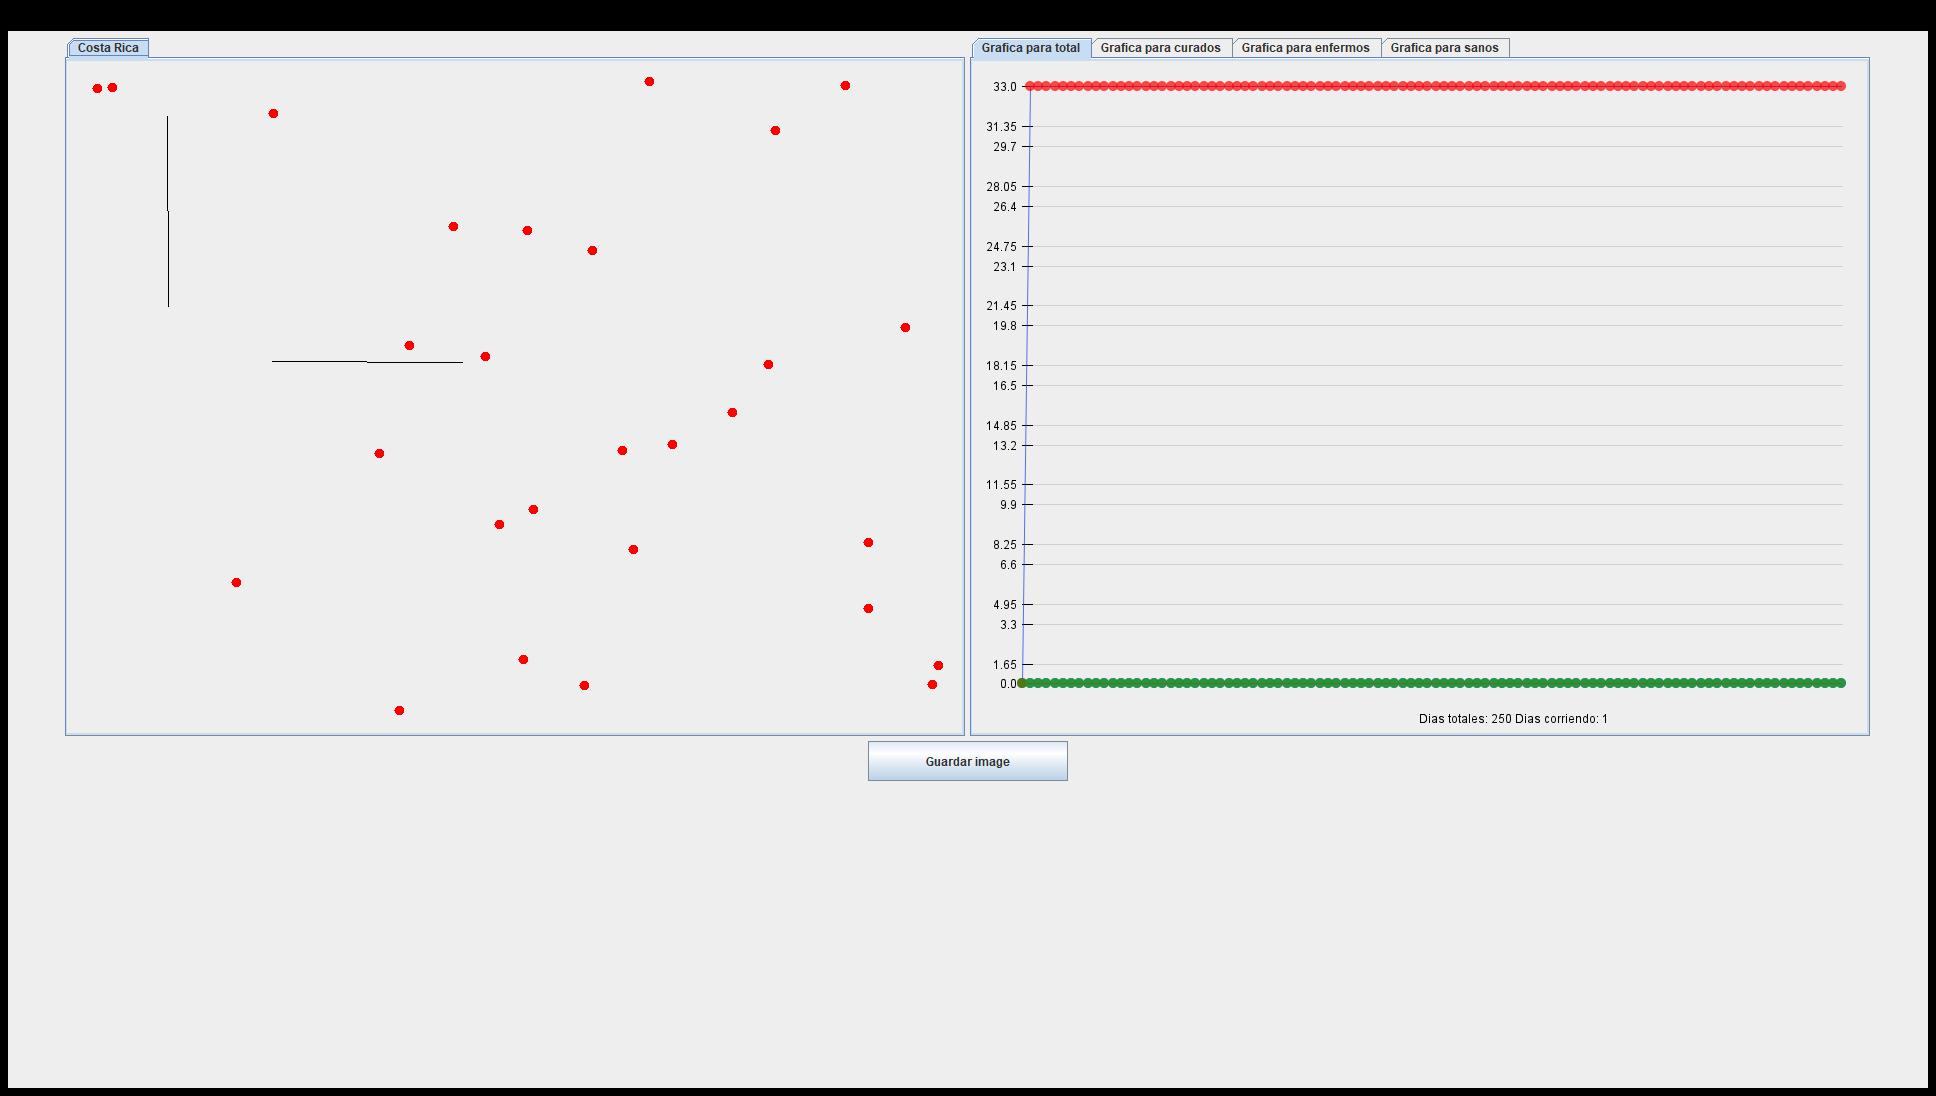
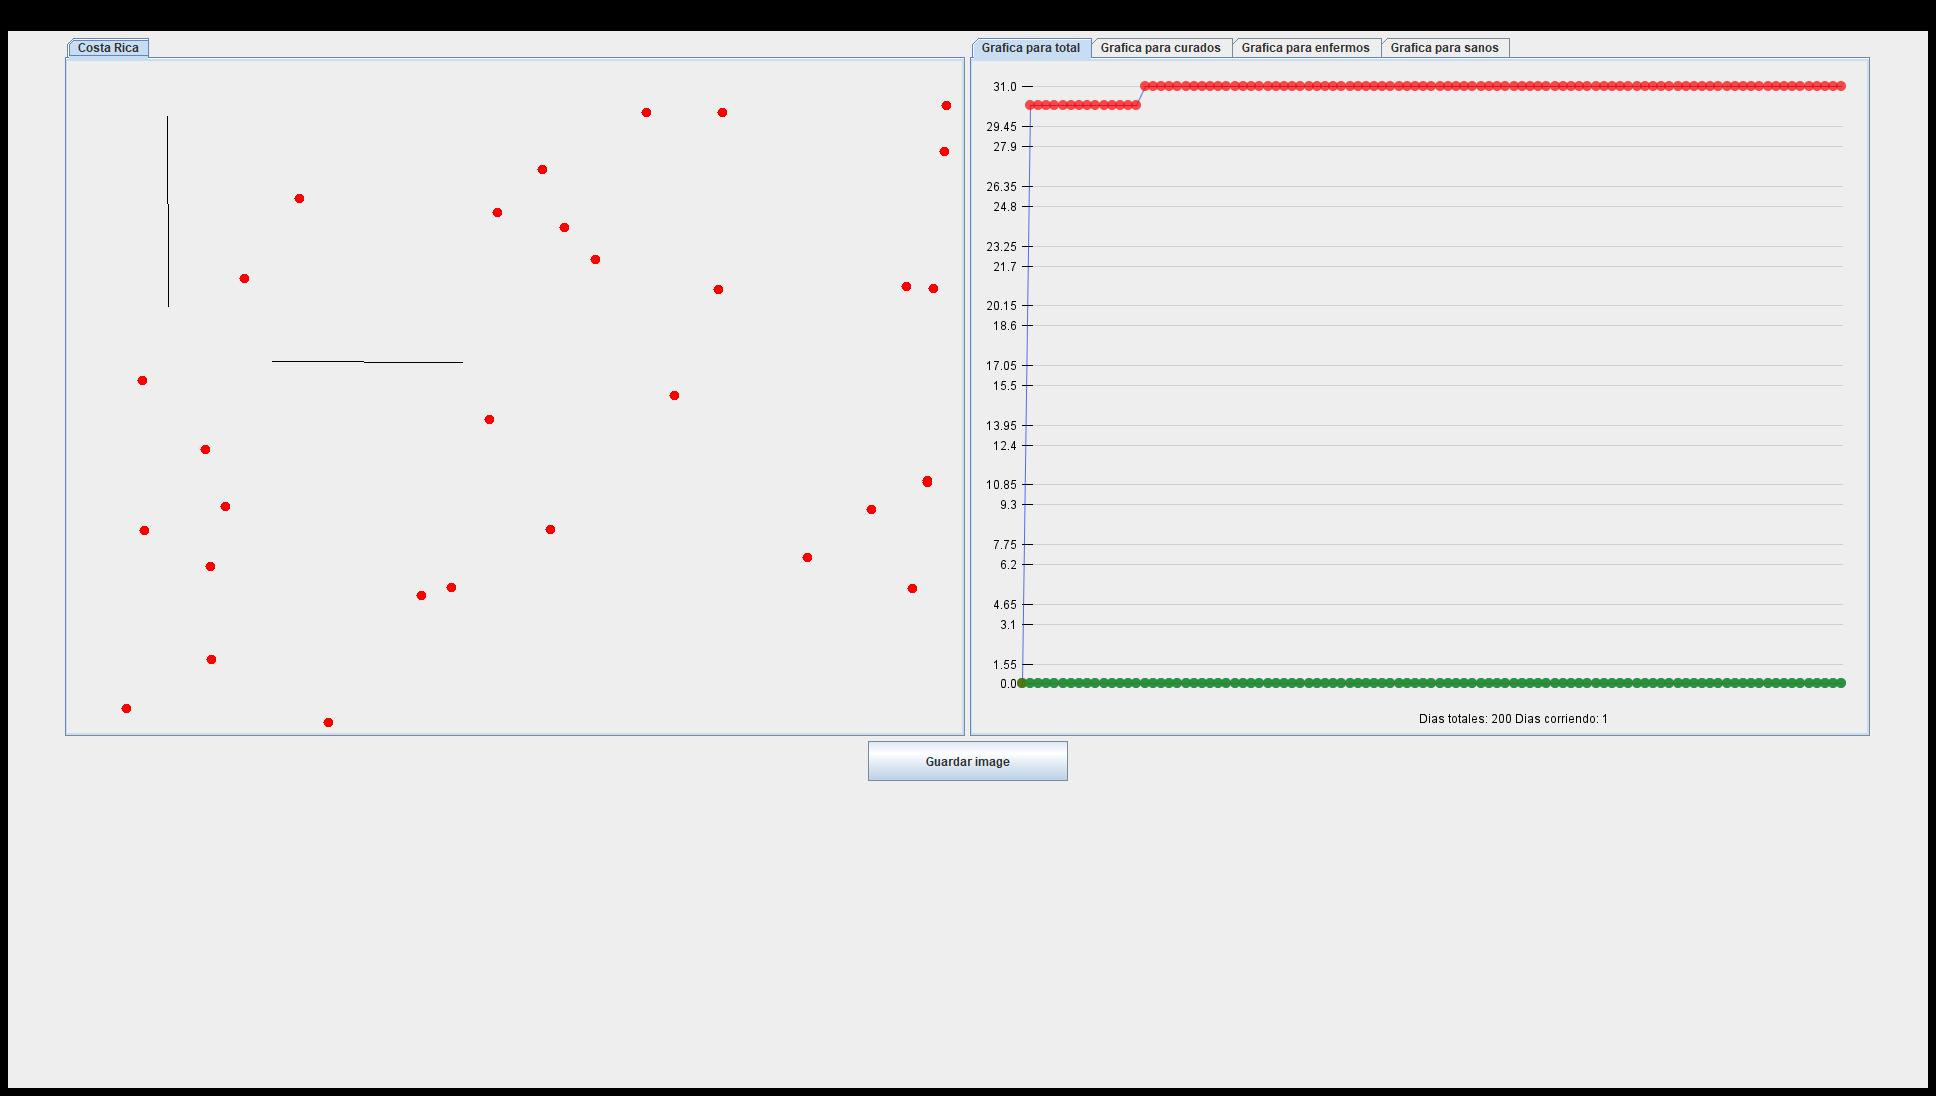
Los agentes ahora se envían con el tiempo limite

Changed region(s): [[0.5269, 0.062, 0.8988, 0.1241]]

diff --git a/src/Multimap/GuiMapMulti.java b/src/Multimap/GuiMapMulti.java
@@ -105,24 +105,15 @@ public class GuiMapMulti extends JPanel implements ActionListener {
         // Esta es la condición de parada
         if(datos_progresivos_de_la_enfermedad.getDias() > configuracion_de_la_enfermedad.getDias_totales()*100) {
             t.stop();
-            Generador_latex gl = new Generador_latex();
-            try {
-                gl.generarLatex(arreglo_de_los_agentes.size(), configuracion_de_la_enfermedad.getDias_totales(), listaGrafico);
-                System.exit(0);
-            } catch (IOException e) {
-                e.printStackTrace();
-            }
+
+            ImageThread imageThread = new ImageThread(listaGrafico, arreglo_de_los_agentes,configuracion_de_la_enfermedad);
+            imageThread.start();
+
         }else{
             if(contador%100 == 0){
                 try {
-                    BufferedImage image = new BufferedImage(f.getWidth(), f.getHeight(), BufferedImage.TYPE_INT_RGB);
-                    Graphics2D graphics2D = image.createGraphics();
-                    f.paint(graphics2D);
-                    File file = new File("latex/");
-                    //Creating the directory
-                    file.mkdir();
-                    ImageIO.write(image, "jpeg", new File("latex/" + contador_imagenes + ".jpeg"));
-                    //Thread.sleep(1000);
+                    LatexThread latexThread = new LatexThread(f,contador_imagenes);
+                    latexThread.start();
                     contador_imagenes++;
                 }catch(Exception e){
                 }
@@ -156,9 +147,14 @@ public class GuiMapMulti extends JPanel implements ActionListener {
                             Socket socket = new Socket(server.getLista_de_ips().get(j),server.getLista_de_puertos().get(j));
 
                             ObjectOutputStream outStream = new ObjectOutputStream(socket.getOutputStream());
+                            arreglo_de_los_agentes.get(i).setTiempo_de_viaje(server.getTiempo_de_agente_en_la_computadora());
                             outStream.writeObject(arreglo_de_los_agentes.get(i));
                             arreglo_de_los_agentes.remove(i);
+                            System.out.println("---------------------------------------");
                             System.out.println("Enviando");
+                            System.out.println(arreglo_de_los_agentes.get(i).toString());
+                            System.out.println("---------------------------------------");
+
                         }catch (Exception exception){
                             System.out.println("---------------------------------------");
                             System.out.println("Error para enviar");

diff --git a/src/Classes/agente.java b/src/Classes/agente.java
@@ -17,6 +17,7 @@ public class agente implements Serializable {
     private ArrayList<Double[]> posiciones_del_tipo_2 = new ArrayList<Double[]>();;
     private int posicion_del_tipo_2 = 0;
     private Boolean validador_para_mover_posicion_del_tipo_2 = true;
+    private int tiempo_de_viaje = 0;
 
     public agente(int tipo, String estado, double velocidad_x, double velocidad_y, int velocidad_maxima, int velocidad_minima, double posicion_en_eje_x, double posicion_en_eje_y, double tiempo_enfermo) {
         this.tipo = tipo;
@@ -32,6 +33,14 @@ public class agente implements Serializable {
     }
 
     public agente() {
+    }
+
+    public int getTiempo_de_viaje() {
+        return tiempo_de_viaje;
+    }
+
+    public void setTiempo_de_viaje(int tiempo_de_viaje) {
+        this.tiempo_de_viaje = tiempo_de_viaje;
     }
 
     public void mover_aleatoreamente(){
@@ -186,6 +195,10 @@ public class agente implements Serializable {
                 ", posicion_en_eje_x=" + posicion_en_eje_x +
                 ", posicion_en_eje_y=" + posicion_en_eje_y +
                 ", tiempo_enfermo=" + tiempo_enfermo +
+                ", posiciones_del_tipo_2=" + posiciones_del_tipo_2 +
+                ", posicion_del_tipo_2=" + posicion_del_tipo_2 +
+                ", validador_para_mover_posicion_del_tipo_2=" + validador_para_mover_posicion_del_tipo_2 +
+                ", tiempo_de_viaje=" + tiempo_de_viaje +
                 '}';
     }
 }

diff --git a/src/Multimap/ImageThread.java b/src/Multimap/ImageThread.java
@@ -1,0 +1,39 @@
+package Multimap;
+
+import Classes.Generador_latex;
+import Classes.agente;
+import Classes.enfermedad;
+
+import java.io.IOException;
+import java.util.ArrayList;
+
+public class ImageThread extends Thread{
+
+    ArrayList<Integer> listaGrafico;
+    ArrayList<agente> arreglo_de_los_agentes;           // Esta variable contiene toda la información de las personas en el mapa
+    enfermedad configuracion_de_la_enfermedad;          // Esta variable nos permite utilizar toda la configuración de la enfermedad
+
+    public ImageThread(ArrayList<Integer> listaGrafico, ArrayList<agente>arreglo_de_los_agentes, enfermedad configuracion_de_la_enfermedad){
+
+        this.listaGrafico = listaGrafico;
+        this.arreglo_de_los_agentes = arreglo_de_los_agentes;
+        this.configuracion_de_la_enfermedad = configuracion_de_la_enfermedad;
+
+    }
+
+    public void ImageFunction(){
+
+        Generador_latex gl = new Generador_latex();
+        try {
+            gl.generarLatex(arreglo_de_los_agentes.size(), configuracion_de_la_enfermedad.getDias_totales(), listaGrafico);
+            System.exit(0);
+        } catch (IOException e) {
+            e.printStackTrace();
+        }
+    }
+    @Override
+    public void run(){
+        ImageFunction();
+    }
+
+}

diff --git a/src/Multimap/LatexThread.java b/src/Multimap/LatexThread.java
@@ -1,0 +1,37 @@
+package Multimap;
+
+import javax.imageio.ImageIO;
+import java.awt.*;
+import java.awt.image.BufferedImage;
+import java.io.File;
+
+public class LatexThread extends Thread{
+
+    Frame f;
+    int contador_imagenes;
+
+    public LatexThread(Frame f, int contador_imagenes){
+        this.f = f;
+        this.contador_imagenes = contador_imagenes;
+    }
+
+    public void latexFunction(){
+        try {
+            BufferedImage image = new BufferedImage(f.getWidth(), f.getHeight(), BufferedImage.TYPE_INT_RGB);
+            Graphics2D graphics2D = image.createGraphics();
+            f.paint(graphics2D);
+            File file = new File("latex/");
+            //Creating the directory
+            file.mkdir();
+            ImageIO.write(image, "jpeg", new File("latex/" + contador_imagenes + ".jpeg"));
+            //Thread.sleep(1000);
+        }catch(Exception e){
+
+        }
+    }
+    @Override
+    public void run(){
+        latexFunction();
+    }
+
+}
